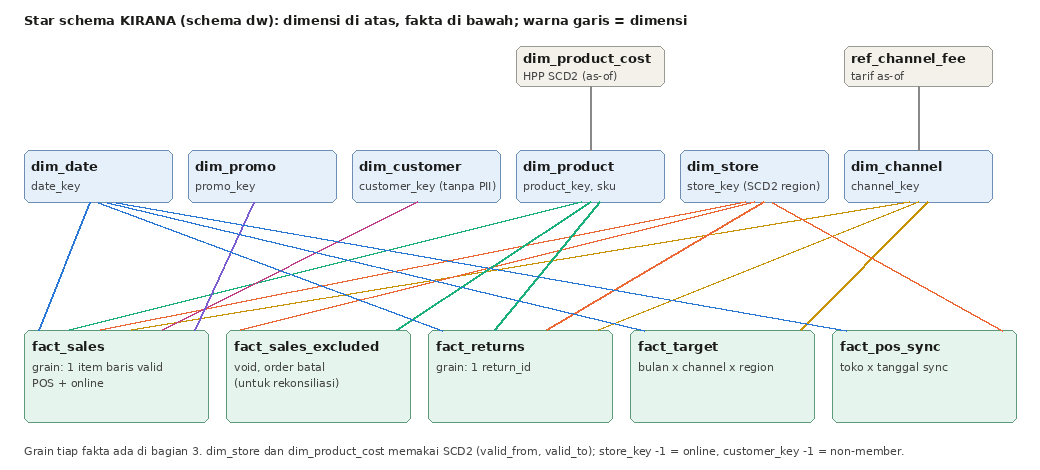
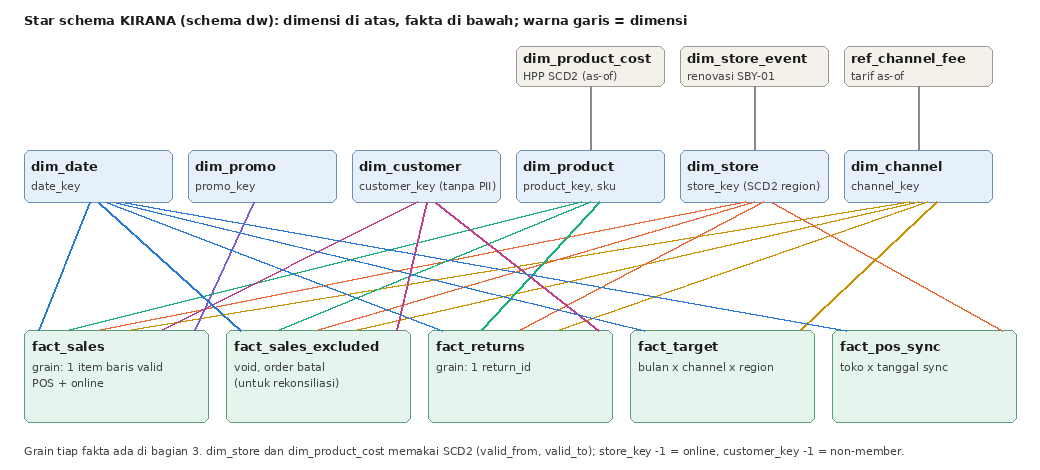
Update star schema diagram and related Python script to include new dimension for store events

diff --git a/reports/img/build_star.py b/reports/img/build_star.py
@@ -6,11 +6,11 @@ from xml.sax.saxutils import escape
 from PIL import Image, ImageDraw, ImageFont
 
 HERE = os.path.dirname(os.path.abspath(__file__))
-HELP = [("dim_product_cost", "HPP SCD2 (as-of)", "dim_product"), ("ref_channel_fee", "tarif as-of", "dim_channel")]
+HELP = [("dim_product_cost", "HPP SCD2 (as-of)", "dim_product"), ("ref_channel_fee", "tarif as-of", "dim_channel"), ("dim_store_event", "renovasi SBY-01", "dim_store")]
 DIMS = [("dim_date", "date_key"), ("dim_promo", "promo_key"), ("dim_customer", "customer_key (tanpa PII)"), ("dim_product", "product_key, sku"), ("dim_store", "store_key (SCD2 region)"), ("dim_channel", "channel_key")]
 FACTS = [("fact_sales", ["grain: 1 item baris valid", "POS + online"], ["date", "product", "store", "channel", "customer", "promo"]),
-         ("fact_sales_excluded", ["void, order batal", "(untuk rekonsiliasi)"], ["store", "product"]),
-         ("fact_returns", ["grain: 1 return_id"], ["date", "product", "store", "channel"]),
+         ("fact_sales_excluded", ["void, order batal", "(untuk rekonsiliasi)"], ["date", "product", "store", "channel", "customer"]),
+         ("fact_returns", ["grain: 1 return_id"], ["date", "product", "store", "channel", "customer"]),
          ("fact_target", ["bulan x channel x region"], ["date", "channel"]),
          ("fact_pos_sync", ["toko x tanggal sync"], ["date", "store"])]
 COL = {"date": "#2a78d6", "promo": "#7a5bd0", "customer": "#c0408a", "product": "#1baf7a", "store": "#eb6834", "channel": "#c89200"}
